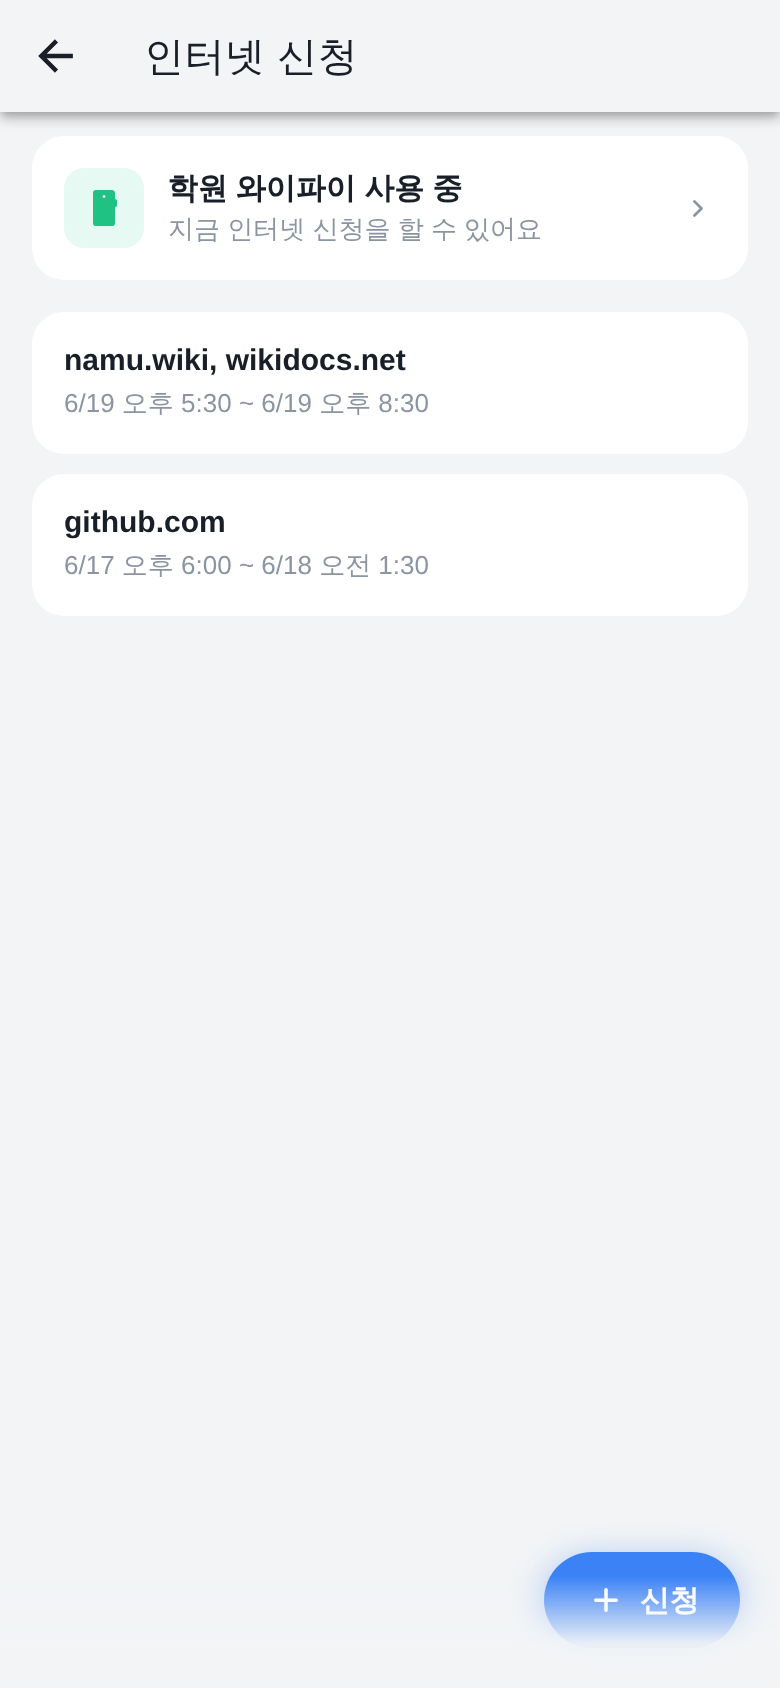
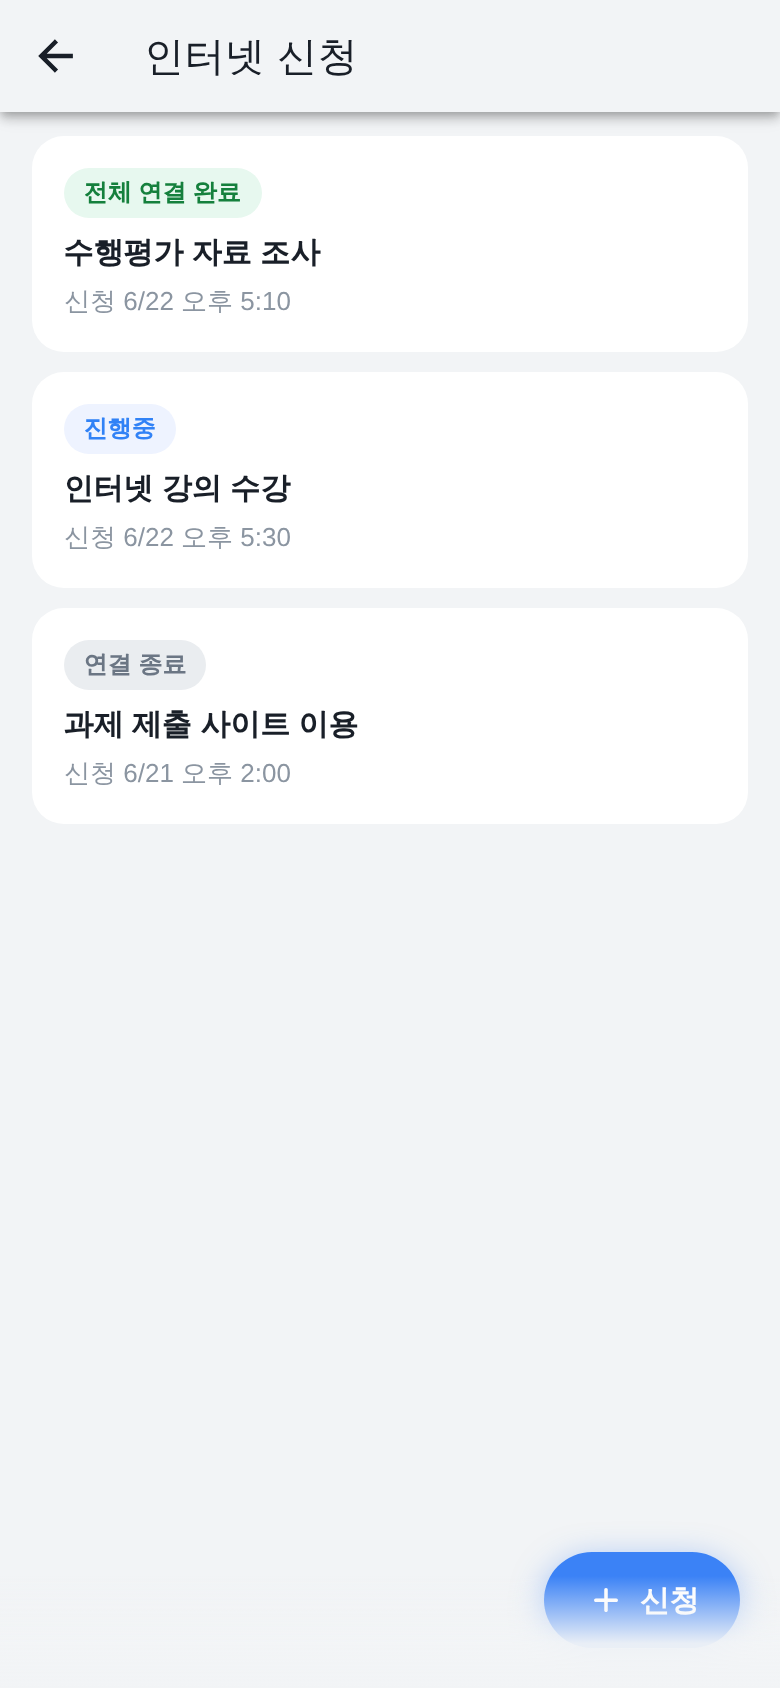
fix(guide): 인터넷 사용방법 최신화 (캡티브포털·전체연결 모델)
- 신청 내역: 도메인 입력 개념 제거, 3단계 상태(진행중/전체 연결 완료/연결 종료)로 갱신
- 신청 작성: 사이트·시간 선택 제거, '사유'만 입력 → 차단 사이트 제외 전체 허용(운영 마감 01:30까지)
- '내 폰 등록' 화면 제거(로그인 시 자동 등록) — 앱에서 라우트 삭제됨에 맞춤
- 캡처 origin/dev(c72af668) 기준 재촬영, 단계 핀 위치 보정

diff --git a/guide.html b/guide.html
@@ -87,12 +87,8 @@
 <main>
 
   <div class="role-group" data-group="student">
-    <div class="group-intro">
-      <div class="tag">For Students · 학생용</div>
-      <h2>학생용 앱 안내</h2>
-      <p>출결·학습·도시락·인터넷 신청까지, 학원 생활을 앱 하나로</p>
-    </div>
-    <div class="toc-chips"><a href="#f-home_student">홈</a><a href="#f-attendance_student">출입 현황</a><a href="#f-schedule_student">일정</a><a href="#f-reason_student">사유</a><a href="#f-meal_student">도시락 신청</a><a href="#f-internet_list_student">인터넷 신청</a><a href="#f-internet_new_student">인터넷 신청 작성</a><a href="#f-internet_device_student">내 폰 등록</a><a href="#f-notice_list">공지사항</a><a href="#f-notice_detail">공지 상세</a><a href="#f-report_student">리포트</a><a href="#f-planner_student">플래너 / 타이머</a><a href="#f-request_student">요청사항</a><a href="#f-notification_student">알림함</a><a href="#f-profile_student">프로필</a></div>
+    <div class="group-intro"><div class="tag">For Students · 학생용</div><h2>학생용 앱 안내</h2><p>출결·학습·도시락·인터넷 신청까지, 학원 생활을 앱 하나로</p></div>
+    <div class="toc-chips"><a href="#f-home_student">홈</a><a href="#f-attendance_student">출입 현황</a><a href="#f-schedule_student">일정</a><a href="#f-reason_student">사유</a><a href="#f-meal_student">도시락 신청</a><a href="#f-internet_list_student">인터넷 신청</a><a href="#f-internet_new_student">인터넷 신청 작성</a><a href="#f-notice_list">공지사항</a><a href="#f-notice_detail">공지 상세</a><a href="#f-report_student">리포트</a><a href="#f-planner_student">플래너 / 타이머</a><a href="#f-request_student">요청사항</a><a href="#f-notification_student">알림함</a><a href="#f-profile_student">프로필</a></div>
     
     <section class="feature" id="f-home_student">
       <div class="feature-text">
@@ -152,34 +148,23 @@
     <section class="feature" id="f-internet_list_student">
       <div class="feature-text">
         <div class="feature-num">인터넷 신청</div>
-        <h3>막힌 사이트 사용 신청하기</h3>
-        <p class="feature-lead">공부에 필요한 사이트가 막혀 있을 때 사용 신청을 할 수 있어요. 신청은 학원 와이파이에 연결된 상태에서만 가능하고, 내 폰이 먼저 등록되어 있어야 해요.</p>
-        <ol class="steps"><li><span class="n">1</span><span class="t">맨 위 카드에서 내 폰 상태를 확인해요. '학원 와이파이 사용 중'이면 신청할 수 있어요.</span></li><li><span class="n">2</span><span class="t">학원 밖이거나 와이파이에 연결돼 있지 않으면 카드가 주황색으로 바뀌고 신청이 잠겨요.</span></li><li><span class="n">3</span><span class="t">신청할 수 있을 때 오른쪽 아래 파란색 '신청' 버튼을 눌러요.</span></li><li><span class="n">4</span><span class="t">지난 신청 내역은 사이트 주소와 사용 시간으로 목록에 나와요.</span></li></ol>
+        <h3>인터넷 사용 신청과 연결 상태 확인</h3>
+        <p class="feature-lead">학원 와이파이에서 차단된 사이트까지 써야 할 때 인터넷 사용을 신청해요. 신청하면 그날 운영 마감(새벽 1시 30분)까지 차단된 사이트를 뺀 모든 사이트를 쓸 수 있어요. 이 화면에서는 신청 내역과 연결 상태를 확인합니다.</p>
+        <ol class="steps"><li><span class="n">1</span><span class="t">오른쪽 아래 파란색 '신청' 버튼을 눌러 새 인터넷 사용을 신청해요.</span></li><li><span class="n">2</span><span class="t">신청한 내역이 카드로 쌓이고, 사유와 신청 시각이 함께 보여요.</span></li><li><span class="n">3</span><span class="t">상태 배지로 진행 상황을 확인해요 — '진행중'은 처리 중, '전체 연결 완료'는 인터넷이 열린 상태, '연결 종료'는 시간이 끝났거나 취소된 상태예요.</span></li><li><span class="n">4</span><span class="t">'진행중'은 잠시 기다리면 자동으로 '전체 연결 완료'로 바뀌어요(화면이 자동으로 갱신돼요).</span></li></ol>
       </div>
       <div class="feature-shot">
-        <div class="phone"><div class="phone-top"><span class="spk"></span><span class="cam"></span></div><div class="phone-screen"><span class="pin" style="left:50%;top:20%">1</span><span class="pin" style="left:86%;top:90%">3</span><span class="pin" style="left:50%;top:55%">4</span><img loading="lazy" src="guide-assets/internet_list_student.png" alt="인터넷 신청"></div></div>
+        <div class="phone"><div class="phone-top"><span class="spk"></span><span class="cam"></span></div><div class="phone-screen"><span class="pin" style="left:86%;top:90%">1</span><span class="pin" style="left:52%;top:16%">2</span><span class="pin" style="left:21%;top:12%">3</span><img loading="lazy" src="guide-assets/internet_list_student.png" alt="인터넷 신청"></div></div>
       </div>
     </section>
     <section class="feature" id="f-internet_new_student">
       <div class="feature-text">
         <div class="feature-num">인터넷 신청 작성</div>
-        <h3>사이트 주소와 사용 시간 정하기</h3>
-        <p class="feature-lead">사용하려는 사이트 주소와 이유, 사용할 시간을 정해서 신청해요. 이미 열려 있는 사이트는 신청하지 않아도 바로 접속할 수 있어요.</p>
-        <ol class="steps"><li><span class="n">1</span><span class="t">사용할 사이트 주소를 입력해요. 이미 허용된 사이트면 '바로 접속하면 된다'는 안내가 떠요.</span></li><li><span class="n">2</span><span class="t">사용 사유를 적어요. (예: 수행평가 자료 조사)</span></li><li><span class="n">3</span><span class="t">'사용시간'을 눌러 '오늘 종일' 또는 2시간·4시간처럼 원하는 길이를 골라요.</span></li><li><span class="n">4</span><span class="t">'신청' 버튼을 누르면 신청이 접수되고 신청 내역 화면으로 돌아가요.</span></li></ol>
+        <h3>사유만 적으면 신청 끝</h3>
+        <p class="feature-lead">예전처럼 사이트 주소나 사용 시간을 고를 필요 없이, 신청 사유만 적으면 됩니다. 신청하면 지금부터 그날 운영 마감(새벽 1시 30분)까지 차단된 사이트를 제외한 모든 사이트에 접속할 수 있어요.</p>
+        <ol class="steps"><li><span class="n">1</span><span class="t">안내 문구에서 언제까지 인터넷을 쓸 수 있는지(그날 새벽 1시 30분까지) 확인해요.</span></li><li><span class="n">2</span><span class="t">'인터넷 신청 사유'에 사용할 이유를 적어요. (예: 수행평가 자료 조사)</span></li><li><span class="n">3</span><span class="t">아래 '신청' 버튼을 누르면 신청이 접수되고 신청 내역 화면으로 돌아가요.</span></li><li><span class="n">4</span><span class="t">부적절한 사유나 유해 사이트 접속이 확인되면 바로 차단될 수 있어요.</span></li></ol>
       </div>
       <div class="feature-shot">
-        <div class="phone"><div class="phone-top"><span class="spk"></span><span class="cam"></span></div><div class="phone-screen"><span class="pin" style="left:50%;top:19%">1</span><span class="pin" style="left:50%;top:33%">2</span><span class="pin" style="left:50%;top:46%">3</span><img loading="lazy" src="guide-assets/internet_new_student.png" alt="인터넷 신청 작성"></div></div>
-      </div>
-    </section>
-    <section class="feature" id="f-internet_device_student">
-      <div class="feature-text">
-        <div class="feature-num">내 폰 등록</div>
-        <h3>학원 와이파이에 내 폰 등록하기</h3>
-        <p class="feature-lead">학원 와이파이(PRNSS)에 연결하고 로그인하면 보통 자동으로 등록돼요. 자동 등록이 안 됐을 때만 이 화면에서 직접 등록하면 됩니다.</p>
-        <ol class="steps"><li><span class="n">1</span><span class="t">학원 와이파이(PRNSS)에 연결돼 있는지 확인해요.</span></li><li><span class="n">2</span><span class="t">'지금 이 폰 등록' 버튼을 누르면 앱이 알아서 등록을 시도해요.</span></li><li><span class="n">3</span><span class="t">등록되면 아래 '등록된 폰' 목록에 '활성'으로 표시돼요.</span></li><li><span class="n">4</span><span class="t">더 쓰지 않는 폰은 '등록 해제'를 눌러 정리할 수 있어요.</span></li></ol>
-      </div>
-      <div class="feature-shot">
-        <div class="phone"><div class="phone-top"><span class="spk"></span><span class="cam"></span></div><div class="phone-screen"><span class="pin" style="left:50%;top:30%">2</span><span class="pin" style="left:50%;top:58%">3</span><img loading="lazy" src="guide-assets/internet_device_student.png" alt="내 폰 등록"></div></div>
+        <div class="phone"><div class="phone-top"><span class="spk"></span><span class="cam"></span></div><div class="phone-screen"><span class="pin" style="left:50%;top:16%">1</span><span class="pin" style="left:50%;top:32%">2</span><span class="pin" style="left:50%;top:41%">3</span><img loading="lazy" src="guide-assets/internet_new_student.png" alt="인터넷 신청 작성"></div></div>
       </div>
     </section>
     <section class="feature" id="f-notice_list">
@@ -262,11 +247,7 @@
   </div>
 
   <div class="role-group hidden" data-group="parent">
-    <div class="group-intro">
-      <div class="tag">For Parents · 학부모용</div>
-      <h2>학부모용 앱 안내</h2>
-      <p>자녀의 출입·학습·알림을 실시간으로 확인하세요</p>
-    </div>
+    <div class="group-intro"><div class="tag">For Parents · 학부모용</div><h2>학부모용 앱 안내</h2><p>자녀의 출입·학습·알림을 실시간으로 확인하세요</p></div>
     <div class="toc-chips"><a href="#f-home_parent">홈</a><a href="#f-attendance_parent">출입 현황</a><a href="#f-schedule_parent">일정</a><a href="#f-report_parent">리포트</a><a href="#f-request_parent">요청사항</a><a href="#f-notice_list">공지사항</a><a href="#f-notice_detail">공지 상세</a><a href="#f-notification_parent">알림함</a><a href="#f-profile_parent">프로필</a></div>
     
     <section class="feature" id="f-home_parent">